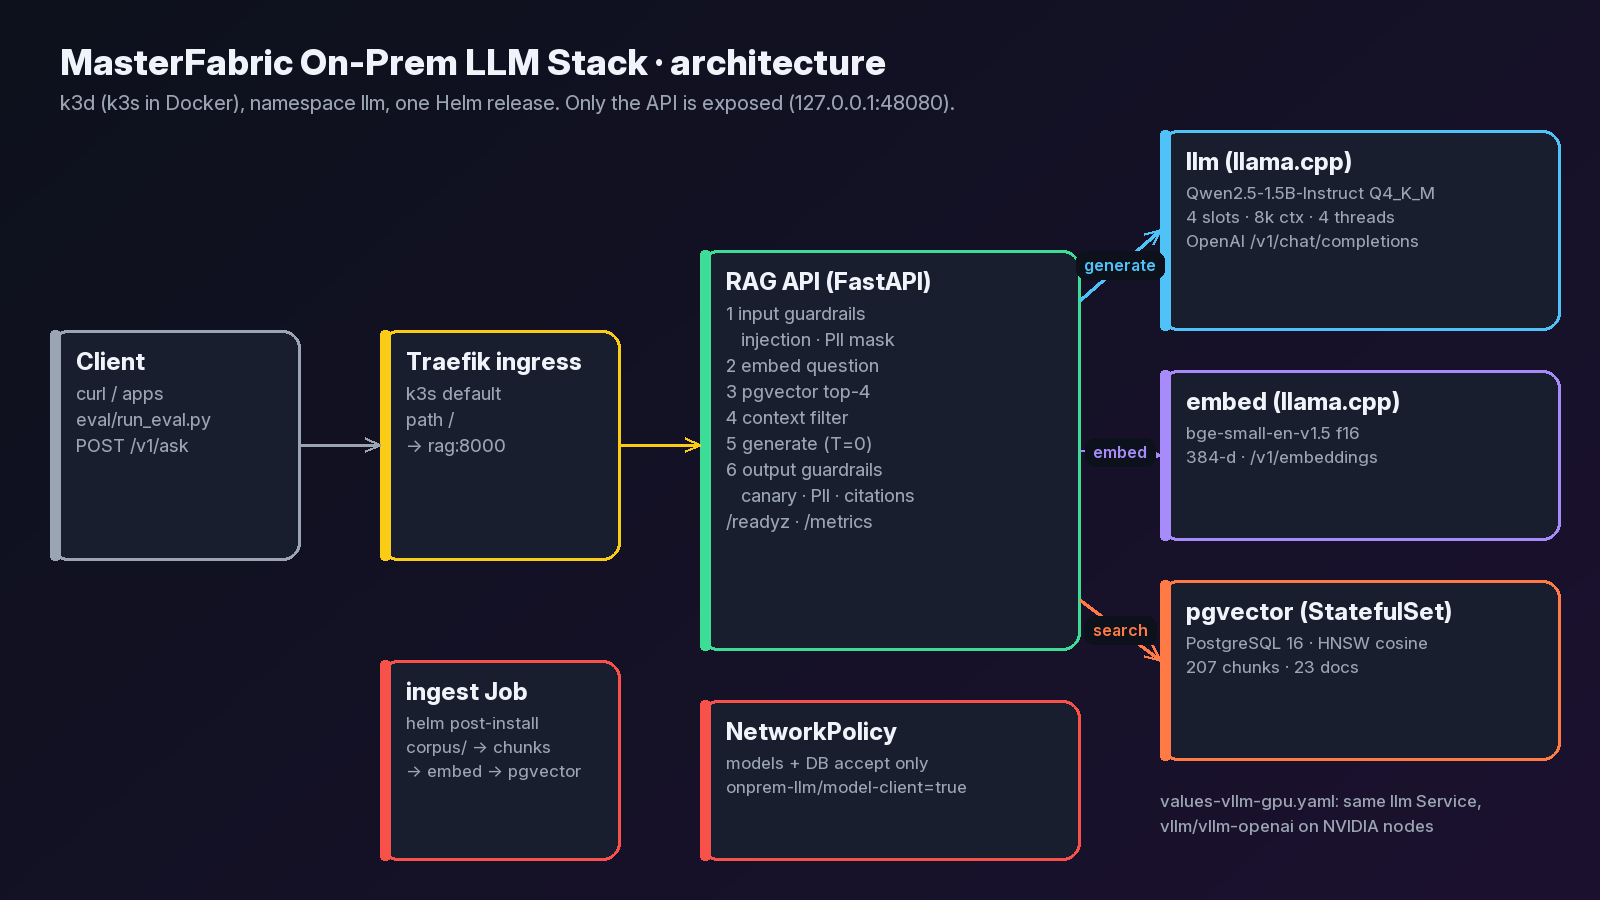
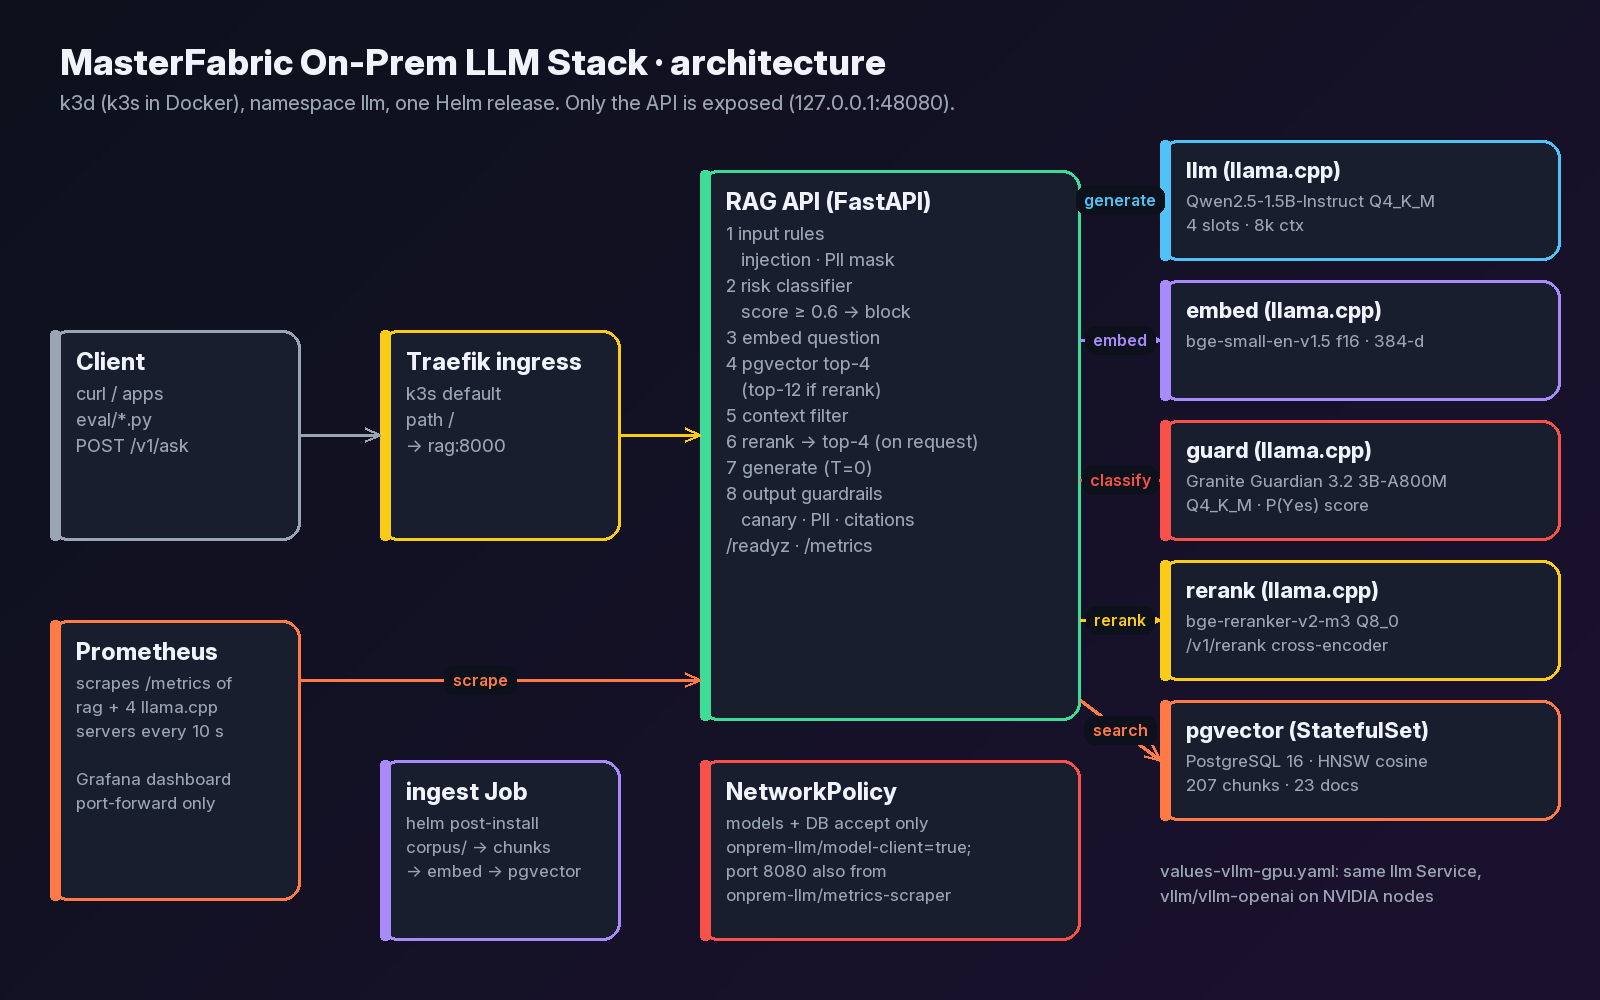
docs: architecture diagram with guard, rerank and monitoring

diff --git a/scripts/make_diagrams.py b/scripts/make_diagrams.py
@@ -3,30 +3,36 @@ from mfviz import GREEN, GREY, ICE, IMG, ORANGE, PURPLE, RED, WHITE, YELLOW, arr
 
 
 def architecture():
-    im, d = canvas(1600, 900)
+    im, d = canvas(1600, 1000)
     d.text((60, 40), "MasterFabric On-Prem LLM Stack · architecture", font=font(36, 800), fill=WHITE)
     d.text((60, 90), "k3d (k3s in Docker), namespace llm, one Helm release. Only the API is exposed (127.0.0.1:48080).",
            font=font(20, 450), fill=GREY)
-    box(d, (50, 330, 300, 560), "Client", ["curl / apps", "eval/run_eval.py", "POST /v1/ask"], GREY, line_size=18)
-    box(d, (380, 330, 620, 560), "Traefik ingress", ["k3s default", "path /", "→ rag:8000"], YELLOW, line_size=18)
-    box(d, (700, 250, 1080, 650), "RAG API (FastAPI)", ["1 input guardrails", "   injection · PII mask", "2 embed question",
-                                                         "3 pgvector top-4", "4 context filter", "5 generate (T=0)",
-                                                         "6 output guardrails", "   canary · PII · citations",
+    box(d, (50, 330, 300, 540), "Client", ["curl / apps", "eval/*.py", "POST /v1/ask"], GREY, line_size=18)
+    box(d, (380, 330, 620, 540), "Traefik ingress", ["k3s default", "path /", "→ rag:8000"], YELLOW, line_size=18)
+    box(d, (700, 170, 1080, 720), "RAG API (FastAPI)", ["1 input rules", "   injection · PII mask", "2 risk classifier",
+                                                         "   score ≥ 0.6 → block", "3 embed question",
+                                                         "4 pgvector top-4", "   (top-12 if rerank)", "5 context filter",
+                                                         "6 rerank → top-4 (on request)", "7 generate (T=0)",
+                                                         "8 output guardrails", "   canary · PII · citations",
                                                          "/readyz · /metrics"], GREEN, line_size=18)
-    box(d, (1160, 130, 1560, 330), "llm (llama.cpp)", ["Qwen2.5-1.5B-Instruct Q4_K_M", "4 slots · 8k ctx · 4 threads",
-                                                       "OpenAI /v1/chat/completions"], ICE, line_size=17)
-    box(d, (1160, 370, 1560, 540), "embed (llama.cpp)", ["bge-small-en-v1.5 f16", "384-d · /v1/embeddings"], PURPLE, line_size=17)
-    box(d, (1160, 580, 1560, 760), "pgvector (StatefulSet)", ["PostgreSQL 16 · HNSW cosine", "207 chunks · 23 docs"], ORANGE,
-        line_size=17)
-    box(d, (380, 660, 620, 860), "ingest Job", ["helm post-install", "corpus/ → chunks", "→ embed → pgvector"], RED, line_size=17)
-    box(d, (700, 700, 1080, 860), "NetworkPolicy", ["models + DB accept only", "onprem-llm/model-client=true"], RED, line_size=17)
-    d.text((1160, 790), "values-vllm-gpu.yaml: same llm Service,", font=font(17, 500), fill=GREY)
-    d.text((1160, 815), "vllm/vllm-openai on NVIDIA nodes", font=font(17, 500), fill=GREY)
-    arrow(d, (300, 445), (380, 445), GREY)
-    arrow(d, (620, 445), (700, 445), YELLOW)
-    arrow(d, (1080, 300), (1160, 230), ICE, "generate")
-    arrow(d, (1080, 450), (1160, 455), PURPLE, "embed")
-    arrow(d, (1080, 600), (1160, 660), ORANGE, "search")
+    right = [((1160, 140, 1560, 260), "llm (llama.cpp)", ["Qwen2.5-1.5B-Instruct Q4_K_M", "4 slots · 8k ctx"], ICE, "generate", 200),
+             ((1160, 280, 1560, 400), "embed (llama.cpp)", ["bge-small-en-v1.5 f16 · 384-d"], PURPLE, "embed", 340),
+             ((1160, 420, 1560, 540), "guard (llama.cpp)", ["Granite Guardian 3.2 3B-A800M", "Q4_K_M · P(Yes) score"], RED, "classify", 480),
+             ((1160, 560, 1560, 680), "rerank (llama.cpp)", ["bge-reranker-v2-m3 Q8_0", "/v1/rerank cross-encoder"], YELLOW, "rerank", 620),
+             ((1160, 700, 1560, 820), "pgvector (StatefulSet)", ["PostgreSQL 16 · HNSW cosine", "207 chunks · 23 docs"], ORANGE, "search", 760)]
+    for xy, title, lines, col, label, y in right:
+        box(d, xy, title, lines, col, title_size=22, line_size=17)
+        arrow(d, (1080, min(max(y, 190), 700)), (1160, y), col, label)
+    box(d, (50, 620, 300, 900), "Prometheus", ["scrapes /metrics of", "rag + 4 llama.cpp", "servers every 10 s", "",
+                                               "Grafana dashboard", "port-forward only"], ORANGE, line_size=17)
+    box(d, (380, 760, 620, 940), "ingest Job", ["helm post-install", "corpus/ → chunks", "→ embed → pgvector"], PURPLE, line_size=17)
+    box(d, (700, 760, 1080, 940), "NetworkPolicy", ["models + DB accept only", "onprem-llm/model-client=true;",
+                                                    "port 8080 also from", "onprem-llm/metrics-scraper"], RED, line_size=17)
+    d.text((1160, 860), "values-vllm-gpu.yaml: same llm Service,", font=font(17, 500), fill=GREY)
+    d.text((1160, 885), "vllm/vllm-openai on NVIDIA nodes", font=font(17, 500), fill=GREY)
+    arrow(d, (300, 435), (380, 435), GREY)
+    arrow(d, (620, 435), (700, 435), YELLOW)
+    arrow(d, (300, 680), (700, 680), ORANGE, "scrape", at=0.45)
     im.save(IMG / "architecture.png", optimize=True)
 
 
